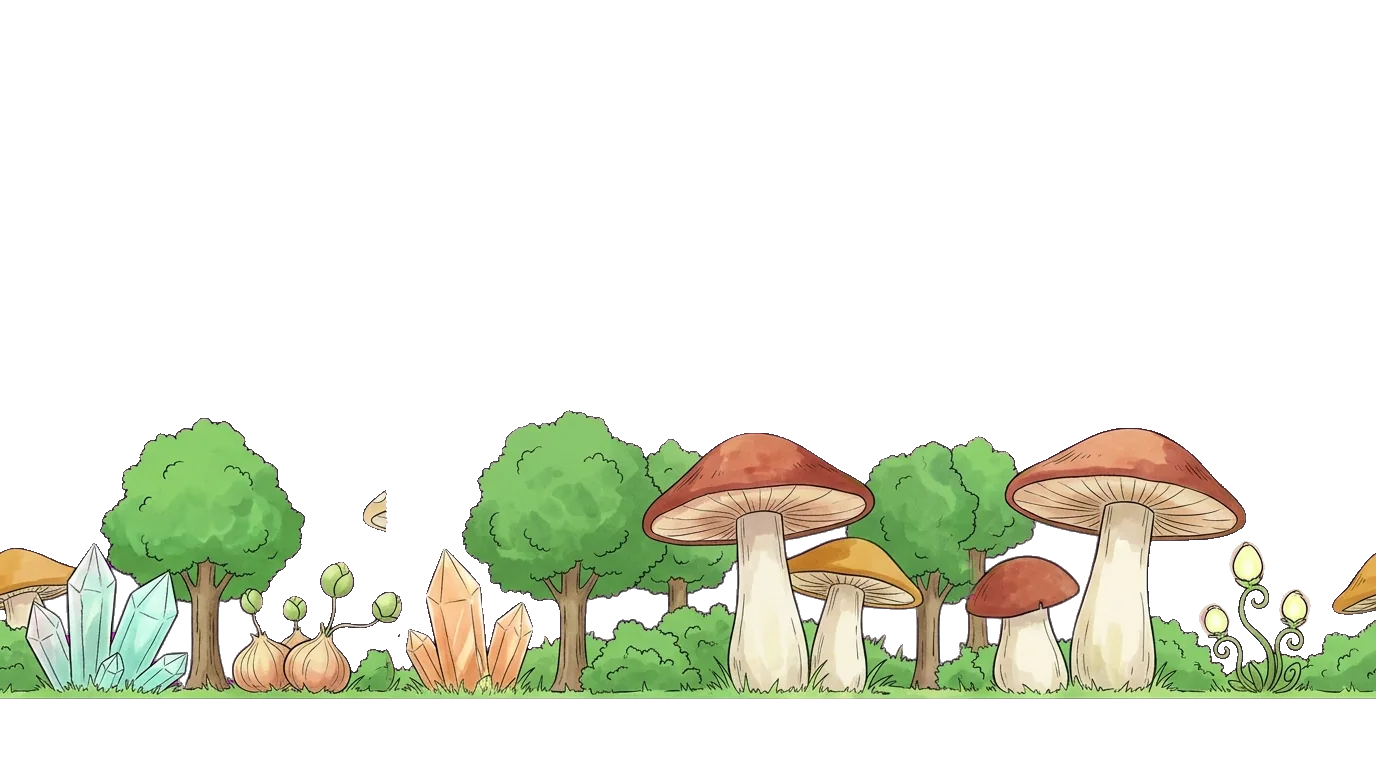
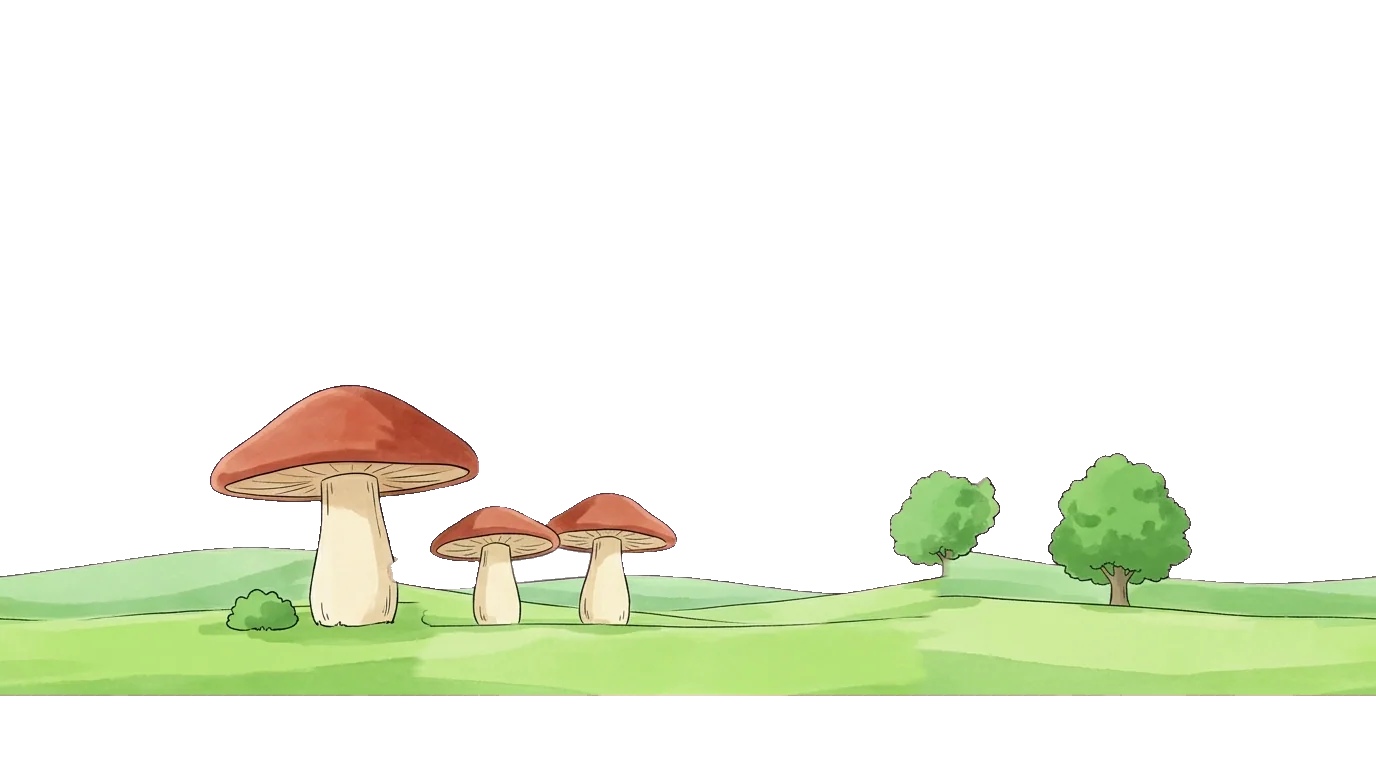
fix(planet): calm meadow layers, Tapko on the bank, crystals that glow
Claude-Session: https://claude.ai/code/session_01MAZwqTN5mZ5mrQogx6Hvzv

Changed region(s): [[0.0, 0.5, 1.0, 0.9375]]

diff --git a/src/game/modes/planet-crystals.ts b/src/game/modes/planet-crystals.ts
@@ -12,8 +12,8 @@ import { lifeCrystalFallback } from './planet';
 const CRYSTALS = ['obj-crystal-amber', 'obj-crystal-rose', 'obj-crystal-aqua'];
 const CRYSTAL_COLOR: Record<string, string> = { 'obj-crystal-amber': '#f2b65a', 'obj-crystal-rose': '#f3b3be', 'obj-crystal-aqua': '#9ed8e2' };
 const MOUNDS = ['obj-mound-1', 'obj-mound-2'];
-/** A big crystal is about 30 % of Tapko's height; a mound's height. */
-const CRYSTAL_H = 80;
+/** A big crystal shows about 30 % of Tapko's height above its mound; a mound's height. */
+const CRYSTAL_H = 88;
 const MOUND_H = 58;
 /** Seconds a crystal grows, flies into the pocket, lies cracked before it is gone, and a mound rests after. */
 const GROW = 1.4;
@@ -122,7 +122,7 @@ export class CrystalsMode extends Mode {
     const n = Math.max(3, Math.min(5, Math.floor((right - left) / 190) + 1));
     for (let i = 0; i < n; i++) {
       const x = left + ((right - left) * i) / (n - 1) + r.range(-18, 18);
-      this.mounds.push({ x, y: VH * r.range(0.9, 0.96), pic: r.pick(MOUNDS), flip: r.chance(0.5), crystal: null, rest: r.range(0, 1.5) });
+      this.mounds.push({ x, y: VH * r.range(0.95, 0.99), pic: r.pick(MOUNDS), flip: r.chance(0.5), crystal: null, rest: r.range(0, 1.5) });
     }
   }
 
@@ -216,6 +216,18 @@ export class CrystalsMode extends Mode {
     }
     const cracked = c.state === 'cracked';
     const alpha = cracked ? Math.max(0, 1 - Math.max(0, c.t - 0.4) / (CRACKED - 0.4)) : 1;
+    // A soft glow of its own color sets a game crystal apart from the ones painted in the background.
+    if (!cracked) {
+      const h = this.size(c), cy = this.foot(m) + 10 - h * 0.5, r = h * 1.1;
+      g.save();
+      const glow = g.createRadialGradient(m.x, cy, 2, m.x, cy, r);
+      glow.addColorStop(0, 'rgba(255,255,240,0.9)');
+      glow.addColorStop(0.35, `${CRYSTAL_COLOR[c.pic]}cc`);
+      glow.addColorStop(1, `${CRYSTAL_COLOR[c.pic]}00`);
+      g.fillStyle = glow;
+      g.fillRect(m.x - r, cy - r, r * 2, r * 2);
+      g.restore();
+    }
     const sh = cracked && c.t < 0.3 ? Math.sin(c.t * 70) * 3 : 0;
     drawSprite(g, cracked ? `${c.pic}-cracked` : c.pic, m.x + sh, this.foot(m) + 10, this.size(c), { ay: 1, rot: c.rot, flip: c.flip, alpha }, fall);
   }
@@ -351,6 +363,7 @@ export class SpellMode extends Mode {
     this.current = null;
     this.fizzle = FIZZLE;
     this.L.sfx('whoosh');
+    this.L.hideBubble();
     this.L.say(pickLine('story.spellBroken'), 2.5);
     const p = this.panel();
     this.L.particles.emit((p.x0 + p.x1) / 2, p.y, 24, 'puff', ['#d8d0e8', '#bfb6d6', '#efeaf7'], 200, 12, 1);
@@ -377,7 +390,7 @@ export class SpellMode extends Mode {
 
   /** The spell panel between Tapko and the crystals. */
   private panel(): { x0: number; x1: number; y: number } {
-    return { x0: TAPKO_X + 150, x1: this.L.vw - 290, y: VH * 0.36 };
+    return { x0: TAPKO_X + 150, x1: this.L.vw - 290, y: VH * 0.46 };
   }
 
   /** The spell's words in lines that fit the panel: each word's center and line. */

diff --git a/src/game/modes/planet-roads.ts b/src/game/modes/planet-roads.ts
@@ -260,6 +260,8 @@ export class CrossroadsMode extends HeroMode {
     this.L.stretchMin(scale.time);
     this.legLeft = this.road.leg;
     this.extremeAt = this.road.echo ? this.L.rng.int(1, this.road.leg) : -1;
+    // What the path changes matters more than a line still shown.
+    this.L.hideBubble();
     this.L.say(unknown
       ? t('story.path.unknownSaid', { len: t(`story.path.unknown.${unknown.len}`), time: t(`story.path.unknown.${unknown.time}`), diff: t(`story.path.unknown.${unknown.diff}`) })
       : pickLine(`story.path.${sign.kind}.said`), 3);
@@ -353,7 +355,7 @@ export class CrossroadsMode extends HeroMode {
       g.fillText(s.name, lx, top - 75);
       g.restore();
     }
-    if (this.current && !this.busy) this.L.label(g, this.current, this.fit(g, this.current.word, this.heroX), wordAbove(FEET));
+    if (this.current && !this.current.done && !this.busy) this.L.label(g, this.current, this.fit(g, this.current.word, this.heroX), wordAbove(FEET));
     this.drawHero(g);
   }
 

diff --git a/src/game/modes/planet.ts b/src/game/modes/planet.ts
@@ -79,7 +79,7 @@ export const FEET = VH - TAPKO_H * 0.1;
 /** His feet on a stepping stone in the swamp, a bit higher, so the stone fits under them. */
 const SWAMP_FEET = VH * 0.9;
 /** The word to type is above his head. */
-export const wordAbove = (feet: number): number => feet - TAPKO_H * 0.8 - 45;
+export const wordAbove = (feet: number): number => feet - TAPKO_H * 0.8 - 60;
 
 /** A stepping stone: its picture's height, and how far above its middle his feet stand. */
 const STONE_H = 74;
@@ -188,8 +188,8 @@ abstract class SwampHero extends HeroMode {
   }
 
   protected bankTop(): { x: number; y: number } {
-    // The picture's grass line is at the place it is drawn.
-    return { x: this.bank!.x + BANK_H * BANK_LAND, y: SWAMP_FEET + 10 };
+    // The picture's grass line is at the place it is drawn; his feet sink a little into the grass.
+    return { x: this.bank!.x + BANK_H * BANK_LAND, y: SWAMP_FEET + 24 };
   }
 
   /** Jumps him to a place in the scene; `then` runs when he lands. */

diff --git a/src/game/modes/idle.test.ts b/src/game/modes/idle.test.ts
@@ -234,6 +234,11 @@ describe('crossroads', () => {
     mode.onWrong(last);
     expect(signs()).toHaveLength(1);
     expect(last.typed).toBe(0);
+    const slot = signs()[0].slot;
+    typeWord(L, mode);
+    run(L, mode, 2);
+    expect((mode as any).slot).toBe(slot);
+    expect((mode as any).heroX).toBeCloseTo((mode as any).slotX(slot));
   });
 
   it('a path changes the rest of the level', async () => {

diff --git a/assets-src/PROMPTS.md b/assets-src/PROMPTS.md
@@ -95,6 +95,10 @@ Notes from real Gemini runs; add new ones here.
   NO perspective, NO fanning" fixed only one strip of the three (robohome near, 2026-10-26: the
   bottom strip, squashed to 150 px and quilted with itself as the donor).
 - A sun with rays got uneven rays; for a calm sun ask for "a smooth perfect circle, no rays".
+- A detailed near and mid layer (grass with crystals, mushrooms, bulbs and ferns) swallowed the game's
+  own crystals, signposts and words on the planet's meadow (2026-10-28). Where objects with words
+  stand on a layer, ask for "LOW detail, calm and simple", "mostly plain grass, lots of calm empty
+  green" and name what must not be in it (the things the game draws).
 - Pieces the page animates on their own (sun, clouds, moon, stars) are one picture each. A
   picture with pieces that do not touch can be cut apart locally (the moon and its stars).
 - A short sprite prompt ("a butterfly with pink wings and round spots") gives a plain, simple
@@ -434,9 +438,11 @@ flat storybook style and no longer apply.
 | `bg-space-far.jpg` | deep friendly space in dark blue and violet with soft glowing stars, a pastel nebula and the curve of a blue-green Earth at the bottom left | full | |
 | `bg-space-mid.jpg` | **use the far prompt instead**, SCENE: "only scattered soft glowing stars and tiny distant pastel planets on a flat pure magenta (#FF00FF) background" | full | not a strip |
 | `bg-space-near.jpg` | **use the far prompt instead**, SCENE: "only a few small soft star sparkles and tiny space dust on a flat pure magenta (#FF00FF) background" | full | not a strip |
-| `bg-planet-far.jpg` | a magical alien planet with a pastel mint sky with soft glowing clouds, purple and turquoise mushroom-shaped trees far away | full | done 2026-10-23 |
-| `bg-planet-mid.jpg` | a magical forest edge with round turquoise and lilac trees and glowing flowers | 50 % | |
-| `bg-planet-near.jpg` | a swamp band with an uneven top (tufts, humps, puddles) and on it turquoise reeds, a lily pad on a curly stem, a purple mushroom tree, a mossy hump with glowing flowers, a curly fern, lilac bulb plants, a glowing cattail and a small crystal | 30 % | done 2026-10-23 |
+| `bg-planet-far.jpg` | (redone 2026-10-28) the dragons' planet, almost like the Earth in natural greens, blues and earthy browns (not mint, purple or turquoise): rolling green hills, a blue river, a small waterfall, dark green forests, a few giant mushroom trees with red-brown, ochre or cream caps, groups of big pale crystals (amber, rose quartz, aquamarine) in the hillsides, a light blue sky with a few small jagged sawtooth clouds tinted soft orange | full | done 2026-10-28 (seam by Gemini) |
+| `bg-planet-swamp-mid.jpg` | (levels 1 and 5) swamp pools between mossy grassy humps, reeds and cattails, a willow with hanging moss, small mushroom trees on the humps, a fallen mossy log, pale amber and rose crystals in shallow water, bulb plants with glowing yellow buds | 45 % | done 2026-10-28 (sheet of two, quilted, lifted 136 px) |
+| `bg-planet-swamp-near.jpg` | mostly calm dark green-brown swamp water (#4E6B4A) with ripples and lily pads, low and almost flat, with a few small clumps far apart: reeds, a cattail, a mossy hump, small orange mushrooms, a little amber crystal, a glowing bulb flower | 30 % | done 2026-10-28 (sheet of three, quilted) |
+| `bg-planet-mid.jpg` | (levels 2-4 and the side activities) wide soft rolling grassy humps in light green (#9CCF7A, #86BF66) with only a few things far apart: two or three round trees, one or two giant mushroom trees with a red-brown cap, a low bush; LOW detail, no crystals, no flowers | 40 % | done 2026-10-28 (sheet of two, quilted, lifted 72 px; the first, detailed version swallowed the game's crystals and signs) |
+| `bg-planet-near.jpg` | a soft low band of short green grass (#7DBF5A) with a gently wavy top and only here and there a tiny tuft, a few small wildflowers or one small stone; LOW detail, no crystals, no mushrooms | 16 % | done 2026-10-28 (sheet of three, about 150 px each, quilted) |
 | `bg-dragons-far.jpg` | a peaceful dragon valley at sunset, warm orange and pink colours in the sky, the sun hidden behind the mountains, soft rounded mountains and a waterfall | full | done 2026-10-23 |
 | `bg-dragons-mid.jpg` | rounded rocky hills with cozy cave entrances and soft moss | 45 % | |
 | `bg-dragons-near.jpg` | grass with orange tips, round pebbles, a big fern, a broken eggshell with orange spots, a mossy log, a small glowing crystal, a dry reed and a curled leaf plant | 25 % | done 2026-10-23 |
@@ -486,11 +492,23 @@ BG is `magenta color (#FF00FF)` unless the table says `green`, then use `green c
 | `obj-planet-2.jpg` | a small round pastel blue planet with soft stripes, front view | magenta |
 | `obj-planet-3.jpg` | a small round pastel purple planet with spots, front view | green |
 | **New planet** | | |
-| `obj-stone.jpg` | a flat round mossy stepping stone seen slightly from above | magenta |
-| `obj-sign.jpg` | a wooden road sign on a post with an empty rectangular board (no text), front view | magenta |
 | `obj-boulder-1.jpg` | a huge round boulder, whole, calm sleepy face | magenta |
 | `obj-boulder-2.jpg` | the same huge round boulder with a few cracks, surprised face | magenta |
-| `obj-boulder-3.jpg` | the same boulder split into several flat stepping stones, with a happy face on the middle one | magenta |
+| `obj-swamp-stone.jpg` | (2026-10-28) one wide flat round stepping stone sticking a little out of calm swamp water, seen from the side and slightly from above: smooth grey-brown stone (#8F857A, lighter #B5ADA2 top) with two soft moss patches (#7DA85A) on its flat top, a thin oval ring of dark green water (#4E6B4A) with two small ripples; about three times wider than tall, no face | magenta |
+| `obj-swamp-stone-cracked.jpg` | **attach `obj-swamp-stone.jpg`**: "redraw the attached stepping stone ... in exactly the same style, size, position and shape ... Only change: three or four clear dark-brown zigzag cracks run across its top and down its side, splitting it into big pieces that still hold together, a few tiny chips in the water" | magenta |
+| `obj-swamp-stone-broken.jpg` | **attach `obj-swamp-stone.jpg`**: as above, "the stone has crumbled: five or six separate chunks, tilted and half sunk into the water ring, splash ripples; lower than the whole stone, nothing to stand on" | magenta |
+| `obj-planet-bank.jpg` | (2026-10-28) the edge of a grassy bank seen from the side: a low wide piece of land with a flat top of short green grass (#7DBF5A), a few small wildflowers, a small red-brown mushroom and a little amber crystal; its left side slopes into a thin band of dark green swamp water with reeds; right side and bottom cut straight; about three times wider than tall, no face. Its grass line is at a quarter of its height from 40 % of its width on | magenta |
+| `obj-crystal-amber.jpg` | (2026-10-28, tall portrait) one big six-sided crystal standing upright with two smaller points low at its sides, translucent amber (#F2B65A, facets #FFD98A, edges #C98A2E), one soft white highlight; the base cut straight, no rock or ground; no face, no glow (the game draws its glow) | magenta |
+| `obj-crystal-rose.jpg` | (2026-10-28, tall portrait) two tall six-sided points of different height from one base, leaning slightly apart, rose quartz (#F3B3BE, facets #FCD9DE, edges #D07A8C); as amber otherwise | green |
+| `obj-crystal-aqua.jpg` | (2026-10-28) three short thick points fanning out from one base, the middle one tallest, light aquamarine (#9ED8E2, facets #D2F1F5, edges #5FA9B8); as amber otherwise | magenta |
+| `obj-crystal-*-cracked.jpg` | **attach the crystal**: "redraw the attached ... crystal in exactly the same style, size, position and shape ... Only change: several clear dark-brown zigzag crack lines across its points, one small chip broken off a tip, the color a bit duller (amber #D9A85E, rose #DDA9B2, aqua #A9C9CE), no white highlight, no pieces lying around" | as the crystal |
+| `obj-mound-1.jpg`, `obj-mound-2.jpg` | (2026-10-28) a low rounded mound, about three times wider than tall, with a slight dip in the middle of its top as if something grows out of it, bottom cut flat, no face: 1 brown soil (#8A6A4A) with short green grass and moss on top, tiny amber crystal chips and a small mushroom at its foot; 2 grey-brown pebbly earth (#9A8670) with moss and clover, two small rose crystal chips and a glowing bulb flower | magenta |
+| `obj-signpost-1.jpg` | (2026-10-28, the crossroads' posts, no board: the game draws the word bubble on top) a short sturdy round wooden post (#A8774A) with grain and knots, a small red-brown mushroom-cap top with cream spots, a tuft of grass and a tiny crystal at its foot; about three times taller than wide | magenta |
+| `obj-signpost-2.jpg` | a tall slim pole of light honey wood (#C99A62) with three carved rings, a green vine with small leaves on its lower half, a small amber crystal in a wooden cup on top; about seven times taller than wide | magenta |
+| `obj-signpost-3.jpg` | a very tall thin straight pole of dark brown wood (#7A5434), a moss patch at its foot, two leafy twigs halfway up, a round bulb plant with a softly glowing yellow bud on top; about twelve times taller than wide | magenta |
+| `obj-life-crystal.jpg` | (2026-10-28) three big six-sided crystals side by side on one small round grey stone base (#8E8A86): the left leans left, the middle is tallest and upright, the right leans right, their upper parts clearly apart; asleep: dull smoky grey-lilac (#9C94A8, facets #B9B3C4, edges #6F6880), matte, no glow; strictly front view, symmetrical. The game lights it a third at a time | green |
+| `obj-life-crystal-lit.jpg` | **attach `obj-life-crystal.jpg`**: "redraw ... in exactly the same style, size, position and shape ... Only change: the three crystals shine from inside: a warm golden-white core (#FFF3C4), facets warm gold (#FFD978) with soft rose (#FFC2CF) and light aqua (#BDEFF2) reflections, white highlights; the light stays inside the outlines, no glow, no halo" | green |
+| `obj-cradle.jpg` | (2026-10-28, the Cradle of Life, not an altar) an old round carved stone pedestal on two low round steps, warm light grey stone (#B8B0A4) with moss and a few small glowing yellow flowers at its foot, carved crystal shapes and curling leaf lines on its sides, a wide shallow empty hollow on its flat top; about as wide as tall, no face, no crystal on it; strictly front view, symmetrical | magenta |
 | **Dragons** | | |
 | `obj-dragon-baby-1.jpg` | a chubby baby dragon, mint green, tiny wings, sitting, big eyes, happy | magenta |
 | `obj-dragon-baby-2.jpg` | a chubby baby dragon, sky blue, tiny wings, sitting, big eyes, happy | magenta |
@@ -523,7 +541,7 @@ A single game map icon: ISLAND. The island floats in the air, with a rounded roc
 |---|---|
 | `ui-map-meadow.jpg` | a small floating island with a green meadow, flowers and a fence |
 | `ui-map-space.jpg` | a small floating island with a launch pad and a cute rocket |
-| `ui-map-planet.jpg` | a small floating island with turquoise mushroom trees and a little swamp |
+| `ui-map-planet.jpg` | (redone 2026-10-28) a small floating island with fresh green grass, one big mushroom tree with a wide red-brown cap with cream spots, a group of three pale amber and rose crystals, a tiny dark green swamp pond with two stepping stones and reeds, and a small round stone pedestal |
 | `ui-map-dragons.jpg` | a small floating island with rounded hills and a cozy dragon cave |
 | `ui-map-egg.jpg` | a small floating island with a grassy slope and a big spotted egg on top |
 

diff --git a/.todo/.done/77-planet-world.md b/.todo/.done/77-planet-world.md
@@ -121,5 +121,13 @@ make life flourish again (5). Reward stays the Force: the crystal thanks him wit
 - [x] The planet's own range thing is a crystal.
 - [x] `.specify/game/story-1-scenario.md` in Slovak; story.md, mechanics.md, super-obstacles.md.
 - [x] tsc, vitest (396), build.
-- [~] Browser play-through: level 1 played to the end (bank fixed after it); levels 2-5 still to be
-      played in the browser (`?fast`, super mode) and compared with worlds 1 and 2.
+- [x] Browser play-through (`?fast`, tester profile): all five levels played to the end, with slips
+      on a sign, the last sign, a spell (fourth slip) and a stone away from the firm one.
+
+## Done - 2026-10-28
+Shipped every step above. Found while playing and fixed: the meadow's first near and mid layers
+were so detailed that the game's crystals and signs got lost (the owner noticed); they were
+redrawn with low detail and no crystals. Tapko stands on the bank's grass line, the game's crystals
+glow in their own color, the path's line replaces a line still shown, the word sits higher above
+his helmet. `obj-sign`, `obj-stone` and `obj-boulder-3` are gone. e2e: play.spec.ts passes for the
+planet; three older failures are in the backlog (renamed buttons, the gate's progress).

diff --git a/.todo/BACKLOG.md b/.todo/BACKLOG.md
@@ -7,3 +7,4 @@ Search before adding; an entry is worked only when it is named.
 - [P2] Mole and molehill are one picture - assets-src/obj-mole.jpg draws the mole inside its hill; the mole level (src/game/modes/egg.ts) needs the mole and the molehill as separate pictures
 - [P2] Dictation words not all audible — src/words/words.ts WordSource.heard still lets through words whose spelling hearing does not decide (voicing at the end or before a consonant, i/y after consonants); see .research/game/activities.md Dictation rules
 - [P2] Three e2e tests fail already on abb8420 - e2e/parrot.spec.ts:50 (no results card after the parrot flies off), e2e/play.spec.ts:152 (gate progress stays 13 % after a slip, expects 0 %), e2e/service.spec.ts:4 (13 done level nodes instead of 10 after the green side cards)
+- [P2] Two e2e tests still name the old buttons - e2e/play.spec.ts:278 expects "Map" first on the stay-a-while card and :249 clicks "End exercise"; commit 279bab3 made both "Stop typing"
